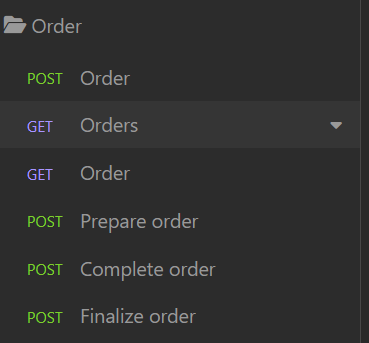
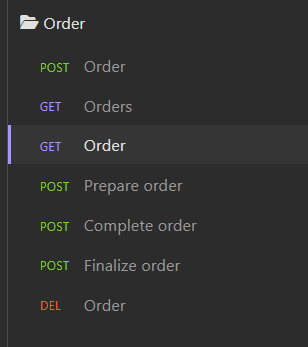
Rota de exclusão de pedidos e documentação

diff --git a/src/EatEasy.Domain/Commands/OrderCommands/OrderCommandHandler.cs b/src/EatEasy.Domain/Commands/OrderCommands/OrderCommandHandler.cs
@@ -11,7 +11,8 @@ namespace EatEasy.Domain.Commands.OrderCommands;
 
 public class OrderCommandHandler : CommandHandler,
     IRequestHandler<RegisterOrderCommand, ValidationResult>,
-    IRequestHandler<UpdateOrderStatusCommand, ValidationResult>
+    IRequestHandler<UpdateOrderStatusCommand, ValidationResult>,
+    IRequestHandler<RemoveOrderCommand, ValidationResult>
 {
     private readonly IOrderRepository _orderRepository;
     private readonly IProductRepository _productRepository;
@@ -110,6 +111,23 @@ public class OrderCommandHandler : CommandHandler,
         _orderRepository.Update(order);
 
         order.AddDomainEvent(new OrderUpdatedEvent(order.Id, order.OrderStatus));
+
+        return await Commit(_orderRepository.UnitOfWork);
+    }
+
+    public async Task<ValidationResult> Handle(RemoveOrderCommand request, CancellationToken cancellationToken)
+    {
+        if (!request.IsValid()) return request.ValidationResult;
+
+        var order = await _orderRepository.GetByIdAsync(request.Id, cancellationToken);
+
+        if (order is null)
+        {
+            AddError("Pedido não encontrado");
+            return ValidationResult;
+        }
+
+        _orderRepository.Remove(order);
 
         return await Commit(_orderRepository.UnitOfWork);
     }

diff --git a/src/EatEasy.Services.API/Controllers/OrderController.cs b/src/EatEasy.Services.API/Controllers/OrderController.cs
@@ -61,7 +61,7 @@ namespace EatEasy.Services.API.Controllers
             Description = "Pesquisa pedido por ID",
             OperationId = "GET",
             Tags = new[] { "Pedido" })]
-        [AllowAnonymous]
+        [Authorize]
         [HttpGet("order-management/{id:guid}")]
         public async Task<OrderViewModel> Get(Guid id, CancellationToken cancellationToken)
         {
@@ -106,6 +106,18 @@ namespace EatEasy.Services.API.Controllers
         {
             return CustomResponse(
                 await _orderAppService.UpdateStatus(orderId, OrderStatus.Done, cancellationToken));
+        }
+
+        [SwaggerOperation(
+            Summary = "Exclusão de pedido",
+            Description = "Exclui pedido por ID. Apenas para usuários admin.",
+            OperationId = "DELETE",
+            Tags = new[] { "Pedido" })]
+        [Authorize(Roles = UserRoles.ADMIN)]
+        [HttpDelete("order-management/{orderId:guid}")]
+        public async Task<IActionResult> Delete(Guid orderId, CancellationToken cancellationToken)
+        {
+            return CustomResponse(await _orderAppService.Remove(orderId, cancellationToken));
         }
     }
 

diff --git a/src/EatEasy.Application/Services/OrderAppService.cs b/src/EatEasy.Application/Services/OrderAppService.cs
@@ -7,6 +7,7 @@ using EatEasy.Domain.Interfaces;
 using EatEasy.Domain.Commands.OrderCommands;
 using EatEasy.Domain.Core.Domain;
 using EatEasy.Domain.Enums;
+using EatEasy.Domain.Commands.CategoryCommands;
 
 namespace EatEasy.Application.Services
 {
@@ -54,6 +55,12 @@ namespace EatEasy.Application.Services
         public async Task<OrderViewModel> GetByIdAsync(Guid id, CancellationToken cancellationToken)
         {
             return _mapper.Map<OrderViewModel>(await _orderRepository.GetByIdAsync(id, cancellationToken));
+        }
+
+        public async Task<ValidationResult> Remove(Guid id, CancellationToken cancellationToken)
+        {
+            var removeCommand = new RemoveOrderCommand(id);
+            return await _mediator.SendCommandAsync(removeCommand, cancellationToken);
         }
     }
 }

diff --git a/src/EatEasy.Domain/Commands/CategoryCommands/CategoryCommandHandler.cs b/src/EatEasy.Domain/Commands/CategoryCommands/CategoryCommandHandler.cs
@@ -58,15 +58,15 @@ namespace EatEasy.Domain.Commands.CategoryCommands
         {
             if (!request.IsValid()) return request.ValidationResult;
 
-            var customer = await _categoryRepository.GetByIdAsync(request.Id, cancellationToken);
+            var category = await _categoryRepository.GetByIdAsync(request.Id, cancellationToken);
 
-            if (customer is null)
+            if (category is null)
             {
                 AddError("Categoria não encontrada");
                 return ValidationResult;
             }
 
-            _categoryRepository.Remove(customer);
+            _categoryRepository.Remove(category);
 
             return await Commit(_categoryRepository.UnitOfWork);
         }

diff --git a/src/EatEasy.Domain/Commands/ProductCommands/ProductCommandHandler.cs b/src/EatEasy.Domain/Commands/ProductCommands/ProductCommandHandler.cs
@@ -72,15 +72,15 @@ namespace EatEasy.Domain.Commands.ProductCommands
         {
             if (!request.IsValid()) return request.ValidationResult;
 
-            var customer = await _productRepository.GetByIdAsync(request.Id, cancellationToken);
+            var product = await _productRepository.GetByIdAsync(request.Id, cancellationToken);
 
-            if (customer is null)
+            if (product is null)
             {
                 AddError("Produto não encontrado");
                 return ValidationResult;
             }
 
-            _productRepository.Remove(customer);
+            _productRepository.Remove(product);
 
             return await Commit(_productRepository.UnitOfWork);
         }

diff --git a/src/EatEasy.CrossCutting.IoC/NativeInjectorBootStrapper.cs b/src/EatEasy.CrossCutting.IoC/NativeInjectorBootStrapper.cs
@@ -47,6 +47,7 @@ namespace EatEasy.CrossCutting.IoC
             
             services.AddScoped<IRequestHandler<RegisterOrderCommand, ValidationResult>, OrderCommandHandler>();
             services.AddScoped<IRequestHandler<UpdateOrderStatusCommand, ValidationResult>, OrderCommandHandler>();
+            services.AddScoped<IRequestHandler<RemoveOrderCommand, ValidationResult>, OrderCommandHandler>();
 
             // Infra - Data
             services.AddScoped<ICategoryRepository, CategoryRepository>();

diff --git a/src/EatEasy.Domain/Commands/OrderCommands/RemoveOrderCommand.cs b/src/EatEasy.Domain/Commands/OrderCommands/RemoveOrderCommand.cs
@@ -1,0 +1,19 @@
+using EatEasy.Domain.Commands.OrderCommands.Validations;
+
+namespace EatEasy.Domain.Commands.OrderCommands
+{
+    public class RemoveOrderCommand : OrderCommand
+    {
+        public RemoveOrderCommand(Guid id)
+        {
+            Id = id;
+            AggregateId = id;
+        }
+
+        public override bool IsValid()
+        {
+            ValidationResult = new RemoveOrderCommandValidation().Validate(this);
+            return ValidationResult.IsValid;
+        }
+    }
+}

diff --git a/src/EatEasy.Application/Interface/IOrderAppService.cs b/src/EatEasy.Application/Interface/IOrderAppService.cs
@@ -11,4 +11,6 @@ public interface IOrderAppService : IDisposable
     Task<ValidationResult> UpdateStatus(Guid orderId, OrderStatus newStatus, CancellationToken cancellationToken);
     Task<IEnumerable<OrderViewModel>> GetAllAsync(string loggedUserRole, Guid loggedUserId, Guid? clientId, CancellationToken cancellationToken);
     Task<OrderViewModel> GetByIdAsync(Guid id, CancellationToken cancellationToken);
+
+    Task<ValidationResult> Remove(Guid id, CancellationToken cancellationToken);
 }

diff --git a/src/EatEasy.Domain/Commands/OrderCommands/Validations/RemoveOrderCommandValidation.cs b/src/EatEasy.Domain/Commands/OrderCommands/Validations/RemoveOrderCommandValidation.cs
@@ -1,0 +1,10 @@
+namespace EatEasy.Domain.Commands.OrderCommands.Validations
+{
+    public class RemoveOrderCommandValidation : OrderValidation<RemoveOrderCommand>
+    {
+        public RemoveOrderCommandValidation()
+        {
+            ValidateId();
+        }
+    }
+}

diff --git a/src/EatEasy.Infra.Data/Repository/Repository.cs b/src/EatEasy.Infra.Data/Repository/Repository.cs
@@ -60,6 +60,7 @@ namespace EatEasy.Infra.Data.Repository
 
         public void Remove(T entity)
         {
+            Db.Entry(entity).State = EntityState.Deleted;
             DbSet.Remove(entity);
         }
     }

diff --git a/README.md b/README.md
@@ -13,6 +13,19 @@ A API contempla os seguintes requisitos:
 - Listagem de pedidos por usuário;
 - Atualização de status dos pedidos para: preparando, completo e finalizado.
 
+## Arquitetura da API
+
+![Arquitetura da API](./assets/camadas%20do%20sofware.jpg)
+
+## Linguagem ubíqua
+
+![Linguagem da API](./assets/linguagem.png)
+
+## Fluxo de compra e checkout
+
+![Linguagem da API](./assets/fluxos.png)
+
+
 ## Como rodar a aplicação?
 
 *Pré requistos:*
